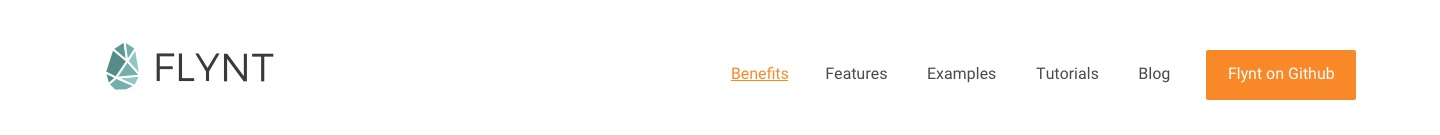
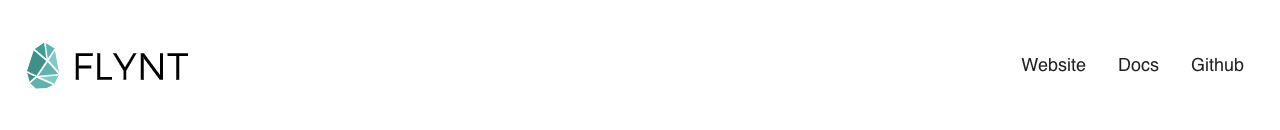
docs(NavigationMain): revisited readme and updated preview screenshots

Changed region(s): [[0.5, 0.3692, 0.9688, 0.7692], [0.0, 0.3077, 0.1875, 0.6769]]

diff --git a/Components/NavigationMain/README.md b/Components/NavigationMain/README.md
@@ -1,14 +1,13 @@
-# NavigationMain
+Title: Navigation Main
 
-## Category
-Navigation
+---
 
-## Tags
-navigation, sticky
+Category: Navigation
 
-## Description
-An absolutely positioned navigation with a brand logo and a WordPress menu.
+---
 
-## Fields
-* brandLogo
-* menuItems
+Tags: navigation, menu
+
+---
+
+Text: A static brand logo and a simple list of links generated from a WordPress menu, to be easily extended into a more complex website navigation. Transforms into a sticky navigation with a burger menu on mobile.
